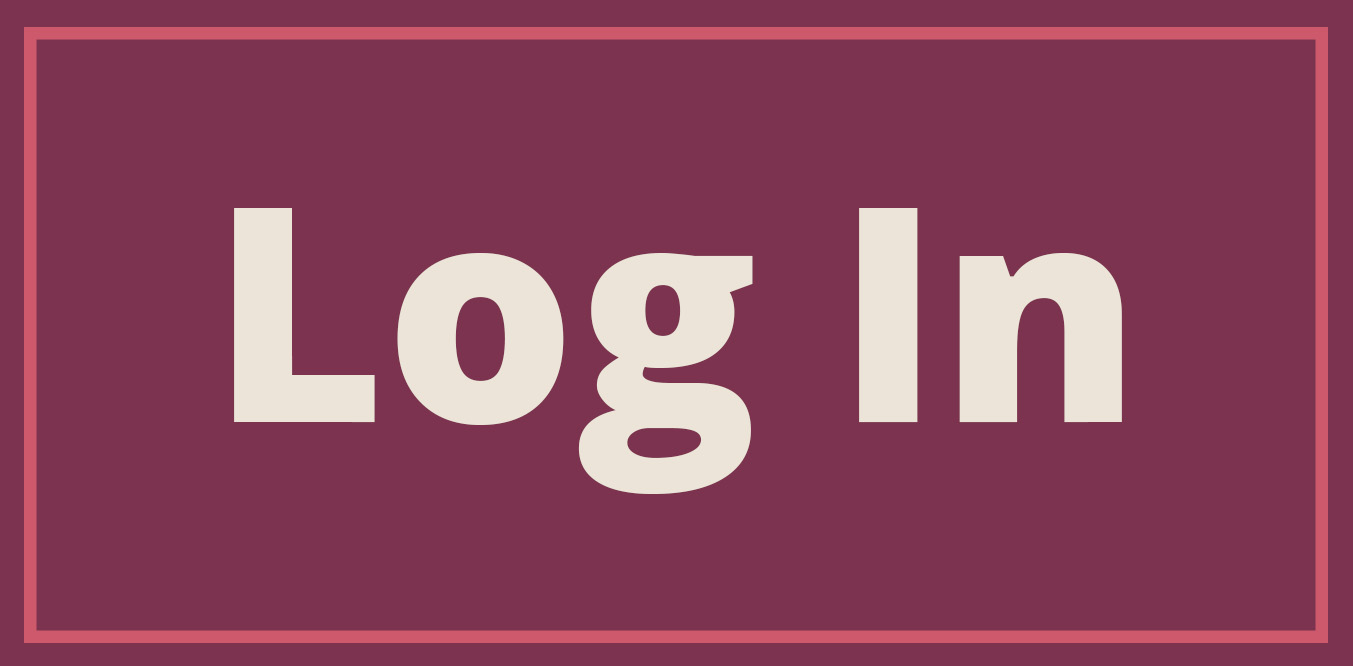
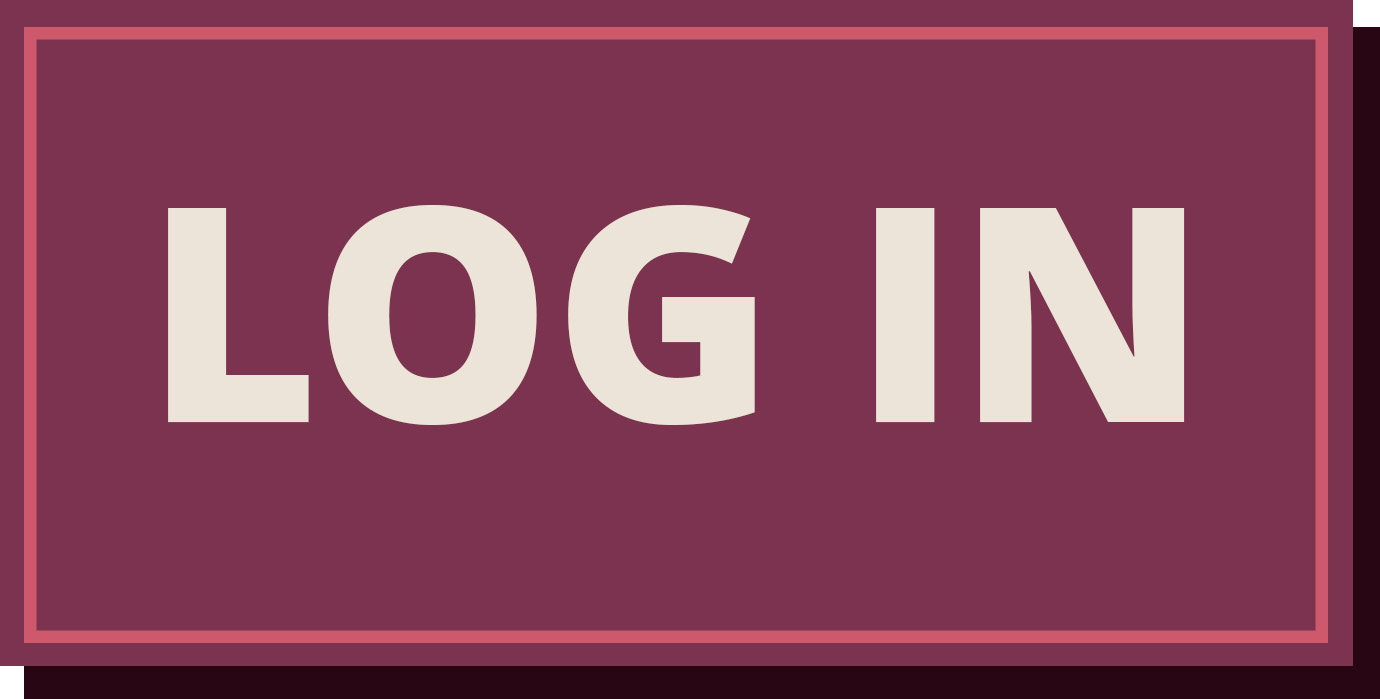
final front page

Changed region(s): [[0.0, 0.0, 1.0, 1.0], [0.1242, 0.2703, 0.5588, 0.7508], [0.6208, 0.3003, 0.8692, 0.6306]]

diff --git a/index.html b/index.html
@@ -52,11 +52,30 @@
 
       <section id="main_content">
 
-
-<div style="position:absolute; top:50%; ">
-<a id="log-in" href=""><img src="images\Log in.jpg" style="width:177px; height:92.75px; position:relative;left:70px  "></a>
-<a id="sign-up" href=""><img src="images\Sign up.jpg" style="width:177px; height:92.75px; position:relative; left:70px "></a>
+<div style="position:absolute; top:25%; left:35%">
+<a href="">
+  <header >
+        <span class="ribbon-outer">
+          <span class="ribbon-inner">
+            <h1>LOG IN</h1><h2></h2>
+          </span>
+        </span>
+</header>
+</a>
+<br>
+<a href="">
+  <header>
+        <span class="ribbon-outer">
+          <span class="ribbon-inner">
+            <h1>SIGN UP</h1><h2></h2>
+          </span>
+        </span>
+</header>
+</a>
 </div>
+<!-- <a id="log-in" href=""><img src="images\Log in.jpg" style="width:177px; height:92.75px; position:relative;left:70px  "></a> -->
+<!-- <a id="sign-up" href=""><img src="images\Sign up.jpg" style="width:177px; height:92.75px; position:relative; left:70px "></a> -->
+
 <!-- <a id="welcome-to-github-pages" class="anchor" href="#welcome-to-github-pages" aria-hidden="true"><span class="octicon octicon-link"></span></a>Welcome to GitHub Pages.</h3>
 
 <p>This automatic page generator is the easiest way to create beautiful pages for all of your projects. Author your page content here <a href="https://guides.github.com/features/mastering-markdown/">using GitHub Flavored Markdown</a>, select a template crafted by a designer, and publish. After your page is generated, you can check out the new <code>gh-pages</code> branch locally. If you’re using GitHub Desktop, simply sync your repository and you’ll see the new branch.</p>
